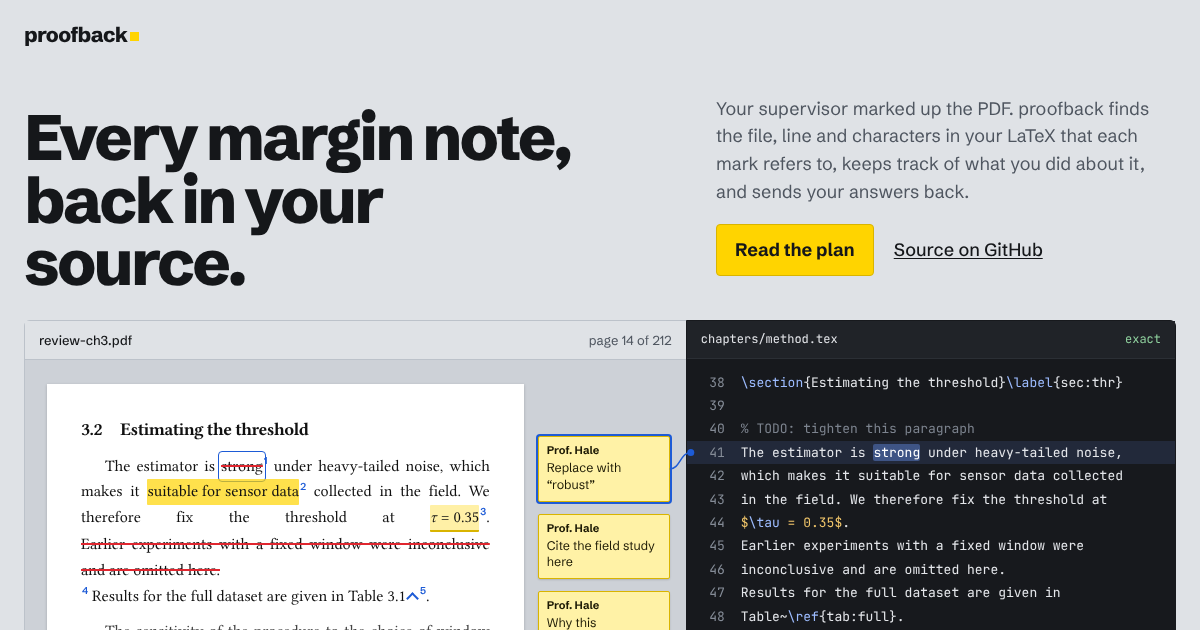
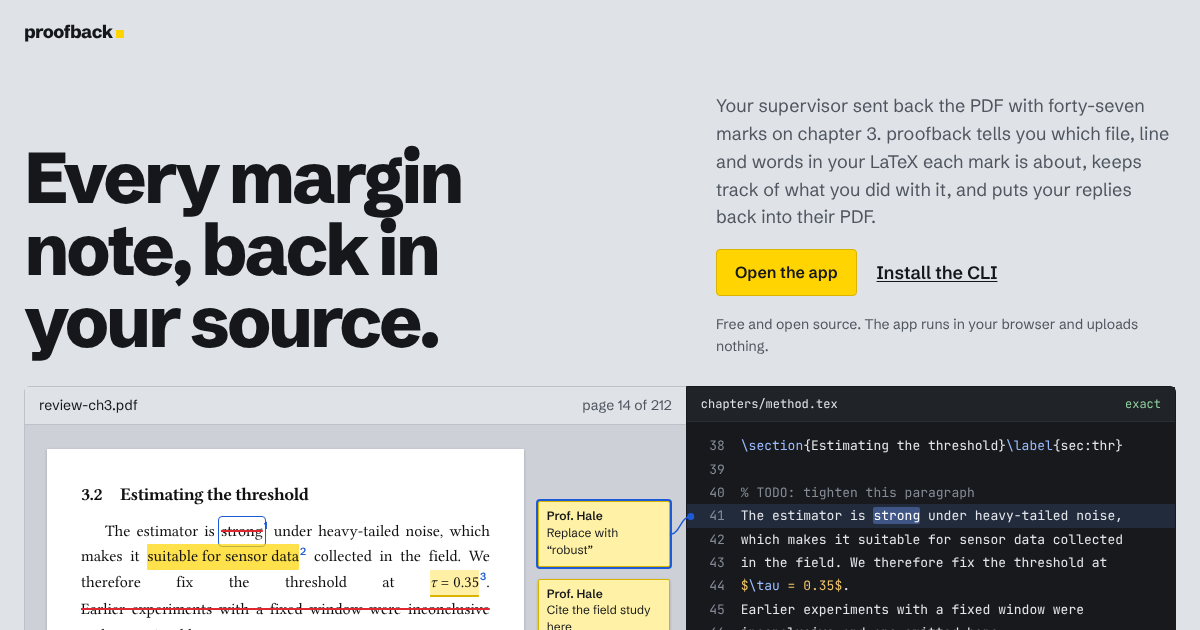
Release 0.2.0; give each app deploy its own offline cache; refresh social preview
The service worker cached the app under a fixed name, so returning visitors
could keep an old version indefinitely. The deploy now stamps the commit into
the cache name.

Claude-Session: https://claude.ai/code/session_01Xj9ekcxX6iwfrVxah4Jejo

diff --git a/site/app/sw.js b/site/app/sw.js
@@ -1,6 +1,8 @@
 // Offline cache for the proofback app shell and engine. Only same-origin GET
 // requests for the app's own files are cached; no user data passes through here.
-const CACHE = 'proofback-app-v1';
+// The deploy job replaces BUILD with the commit, so every deploy gets a fresh
+// cache and the old one is deleted on activation.
+const CACHE = 'proofback-app-BUILD';
 const FILES = [
   './', 'index.html', 'app.css', 'app.js', 'worker.js',
   'engine/proofback_wasm.js', 'engine/proofback_wasm_bg.wasm', 'engine/pdfium.js', 'engine/pdfium.wasm',

diff --git a/CHANGELOG.md b/CHANGELOG.md
@@ -3,7 +3,7 @@
 All notable changes to proofback. Versions follow [Semantic Versioning](https://semver.org/);
 the JSON schema is versioned separately (`schema_version` in round files).
 
-## Unreleased
+## 0.2.0 (2026-11-25)
 
 ### Website and app
 
@@ -12,6 +12,9 @@ the JSON schema is versioned separately (`schema_version` in round files).
 - Landing page: plain section headings, an install section, and no filler (captions,
   revision table, colophon).
 - Browser app: consistent buttons, aligned header, and the setup form keeps its width.
+- Browser app: each deploy now gets its own offline cache. Before, a returning visitor
+  could keep an old version of the app indefinitely.
+- New social preview image matching the current site.
 
 ### Releases
 

diff --git a/docs/github-action.md b/docs/github-action.md
@@ -24,7 +24,7 @@ jobs:
     runs-on: ubuntu-latest
     steps:
       - uses: actions/checkout@v4
-      - uses: Amet13/proofback@v0.1.0
+      - uses: Amet13/proofback@v0.2.0
         with:
           pdf: reviews/supervisor-ch3.pdf
           synctex: build/main.synctex.gz
@@ -57,7 +57,7 @@ jobs:
           name: proofback-review
           run-id: ${{ github.event.workflow_run.id }}
           github-token: ${{ github.token }}
-      - uses: Amet13/proofback@v0.1.0
+      - uses: Amet13/proofback@v0.2.0
         with:
           mode: comment
 ```
